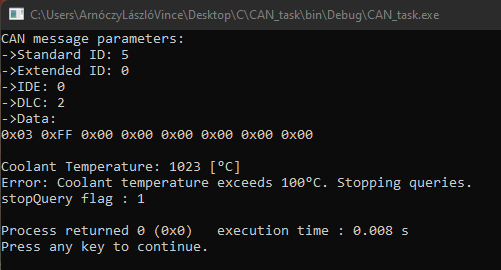
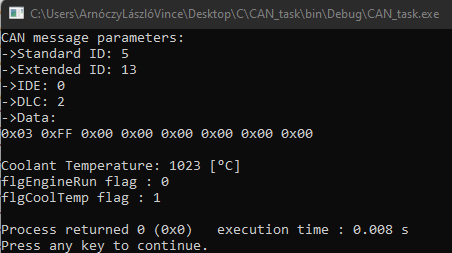
modifyed Task100ms

diff --git a/main.c b/main.c
@@ -32,7 +32,8 @@
  * https://en.wikipedia.org/wiki/OBD-II_PIDs
  **/
 
-BYTE stopQuery = 0;
+BYTE flgEngineRun = 0;
+BYTE flgCoolTemp = 0;
 BYTE timer1sec = 0;
 
 typedef struct
@@ -80,7 +81,7 @@ void HandlePacket(canMsg *packet, U32 Id)
     {
         case vechicleSpeed:
         {
-            U16 vSpeed = ByteHextoDec(packet);
+            uint8_t vSpeed = ByteHextoDec(packet);
             printf("Vehicle Speed: %u [km/h] \n", vSpeed);
             break;
         }
@@ -88,6 +89,10 @@ void HandlePacket(canMsg *packet, U32 Id)
         {
             U32 eSpeed = ByteHextoDec(packet);
             printf("Engine Speed: %u [RPM] \n", eSpeed);
+            if (eSpeed > 0)
+            {
+                flgEngineRun = 1;
+            }
             break;
         }
         case engineCoolant:
@@ -96,8 +101,7 @@ void HandlePacket(canMsg *packet, U32 Id)
             printf("Coolant Temperature: %u [°C] \n", tCoolant);
             if (tCoolant >= 100)
             {
-                printf("Error: Coolant temperature exceeds 100°C. Stopping queries.\n");
-                stopQuery = 1;
+                flgCoolTemp = 1;
             }
             break;
         }
@@ -124,11 +128,18 @@ void SendPacket(canMsg *packet)
 
 void Task100msec(void)
 {
-    if (timer1sec >= 10 && stopQuery == 0)
+    if (timer1sec >= 10)
     {
-        timer1sec = 0;
-        canMsg packet = {0};
-        SendPacket(&packet);
+        if (!(flgCoolTemp == 1 || flgEngineRun == 1))
+        {
+            timer1sec = 0;
+            canMsg packet = {0};
+            SendPacket(&packet);
+        }
+        else if (flgCoolTemp == 1 && flgEngineRun == 1)
+        {
+            printf("Error: Coolant temperature exceeds 100°C. Stopping queries.\n");
+        }
     }
     else
     {
@@ -160,7 +171,7 @@ int main()
 
     packet.Data[0] = 0x03;
     packet.Data[1] = 0xff;
-    packet.DLC = 0x02;
+    packet.DLC = 0x01;
 
     printf("CAN message parameters:\n");
     printf("->Standard ID: %u\n", packet.StdId);
@@ -177,7 +188,8 @@ int main()
     printf("\n\n");
 
     PacketReceived(&packet);
-    printf("stopQuery flag : %u\n", stopQuery);
+    printf("flgEngineRun flag : %u\n", flgEngineRun);
+    printf("flgCoolTemp flag : %u\n", flgCoolTemp);
     return 0;
 }
 //-----------------------------------TESTING--------------------------------------
